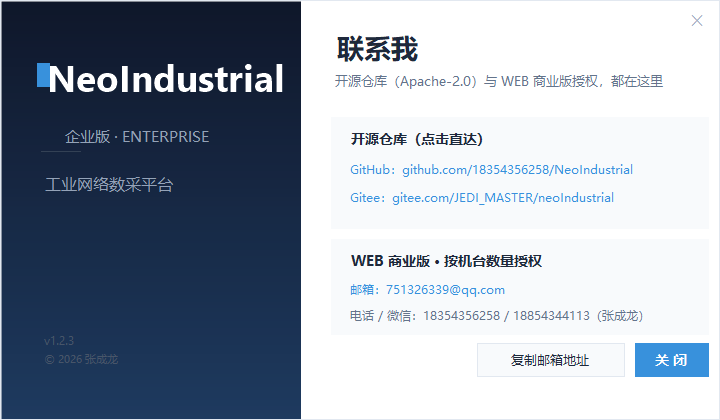
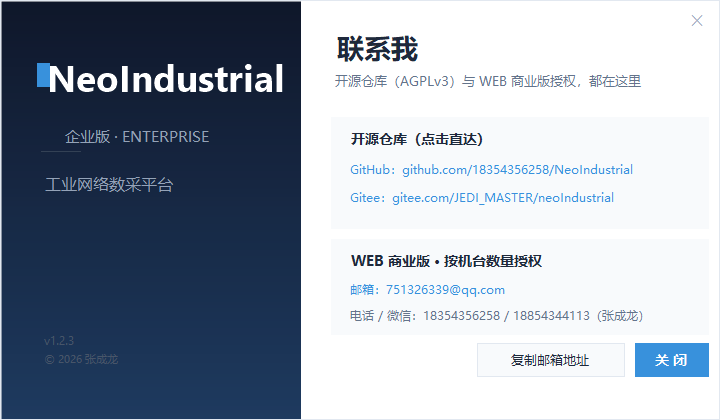
许可协议由 Apache-2.0 变更为 AGPLv3
- LICENSE: 替换为 GNU Affero GPL v3.0 全文（含第 13 条网络交互条款）
- README.md / README.en.md: 徽章、定位、目录树、许可证章节、页脚统一改为 AGPLv3，并写明衍生作品须同样以 AGPLv3 开源
- ContactForm.cs + Lang_zh/Lang_en.json: 「联系我」页副标题 Apache-2.0 -> AGPLv3
- picture/联系我.png: 按新文案重渲染

Changed region(s): [[0.55, 0.1548, 0.9167, 0.2167]]

diff --git a/IndustrialDataCollector/Forms/ContactForm.cs b/IndustrialDataCollector/Forms/ContactForm.cs
@@ -386,7 +386,7 @@ namespace IndustrialDataCollection.Forms
         {
             this.Text = S("Contact_Title", "联系我");
             lblTitle.Text = S("Contact_Title", "联系我");
-            lblDesc.Text = S("Contact_Subtitle", "开源仓库（Apache-2.0）与 WEB 商业版授权，都在这里");
+            lblDesc.Text = S("Contact_Subtitle", "开源仓库（AGPLv3）与 WEB 商业版授权，都在这里");
             lblReposTitle.Text = S("Contact_ReposTitle", "开源仓库（点击直达）");
             lnkGithub.Text = S("Contact_RepoGithub", "GitHub：github.com/18354356258/NeoIndustrial");
             lnkGitee.Text = S("Contact_RepoGitee", "Gitee：gitee.com/JEDI_MASTER/neoIndustrial");

diff --git a/README.md b/README.md
@@ -7,7 +7,7 @@
 **新工业 AI 数据基座 · 已开源的工业数据采集桌面客户端**
 
 [![.NET Framework 4.8](https://img.shields.io/badge/.NET-4.8-blue)](https://dotnet.microsoft.com/)
-[![License](https://img.shields.io/badge/License-Apache%202.0-green)](LICENSE)
+[![License](https://img.shields.io/badge/License-AGPLv3-blue)](LICENSE)
 [![Platform](https://img.shields.io/badge/Platform-Windows-lightgrey)]()
 [![GitHub](https://img.shields.io/badge/GitHub-NeoIndustrial-black)](https://github.com/18354356258/NeoIndustrial)
 [![Gitee](https://img.shields.io/badge/Gitee-JEDI_MASTER-red)](https://gitee.com/JEDI_MASTER/neoIndustrial)
@@ -20,7 +20,7 @@ GitHub：<https://github.com/18354356258/NeoIndustrial> ｜ Gitee：<https://git
 
 </div>
 
-> **一句话定位**：这是一套完整开源（Apache License 2.0）的工业数据采集与语义建模工作站——向下用 39 种协议驱动连接 PLC、CNC、电力仪表、楼宇设备，向上把数据写入五类数据库、发布到 MQTT，中间提供边缘计算清洗、事件报警、看板监控、REST API、MCP AI 助手与语义层数字孪生建模。源码全部开放，可自行下载、编译、部署与二次开发。
+> **一句话定位**：这是一套完整开源（AGPLv3）的工业数据采集与语义建模工作站——向下用 39 种协议驱动连接 PLC、CNC、电力仪表、楼宇设备，向上把数据写入五类数据库、发布到 MQTT，中间提供边缘计算清洗、事件报警、看板监控、REST API、MCP AI 助手与语义层数字孪生建模。源码全部开放，可自行下载、编译、部署与二次开发。
 
 ---
 
@@ -619,7 +619,7 @@ GET /api/status                               # 系统状态
 
 ### 获取方式（重要）
 
-- **企业版（本仓库）**：客户端可直接从本仓库 Releases 页面下载试用；源码 Apache 2.0，可克隆自行编译。正式授权请发送机器码至邮箱。
+- **企业版（本仓库）**：客户端可直接从本仓库 Releases 页面下载试用；源码 AGPLv3，可克隆自行编译。正式授权请发送机器码至邮箱。
 - **WEB 商业版**：**不提供公开下载**，需联系作者申请授权，按机台数量计费。
 - **客户端内入口**：企业版客户端「帮助 → 联系我」可一键打开两个开源仓库、复制授权邮箱；登录页也有「联系我 · 获取商业版 / 查看开源仓库」链接。
 
@@ -657,7 +657,7 @@ NeoIndustrial/
 ├─ picture/                            # README 截图
 ├─ IndustrialDataCollector.sln         # 解决方案
 ├─ setup.bat                           # 一键环境准备（清缓存 → 解除文件安全标记 → NuGet 还原）
-└─ LICENSE                             # Apache License 2.0
+└─ LICENSE                             # GNU AGPLv3
 ```
 
 ---
@@ -753,7 +753,7 @@ NeoIndustrial/
 
 ## 📄 许可证
 
-**源码**以 [Apache License 2.0](LICENSE) 开源（Copyright 2026 张成龙），可自由用于商业与非商业用途，保留版权与许可声明即可。
+**源码**以 [GNU Affero 通用公共许可证 v3.0（AGPLv3）](LICENSE) 开源（Copyright 2026 张成龙）。你可以自由使用、修改与分发，但**衍生作品必须同样以 AGPLv3 开源**；若把修改后的版本作为网络服务提供给他人使用，也必须向使用者提供完整的对应源码。保留版权与许可声明。
 
 **第三方依赖**：各 NuGet 包遵循其自身开源许可（如 MySqlConnector (MIT)、OPC UA 官方栈（OPC Foundation, RCL）、S7netplus、NModbus、Npgsql、System.Data.SQLite、MQTTnet、log4net 等），清单见 `IndustrialDataCollector/packages.config`（31 个包）。
 
@@ -773,7 +773,7 @@ NeoIndustrial/
 
 从 UI 原型到低层协议栈，从 Dashboard 到时序引擎，从数据库 schema 到 39 种工业协议驱动——全部一个人写完。不是为了证明什么，只是真的需要一副能连接一切工业设备的神经末梢，让数字孪生活起来。
 
-现在，我把这套企业版桌面客户端完整开源——Apache 2.0。因为我知道：一个工程师想在自己的工控机上装一套能用的、干净的、不设防的数据采集软件有多难。工业数据采集是数字孪生和智能制造最基础的地基——地基应该干干净净地开放。你下载、编译、连接你的设备，就这么简单。
+现在，我把这套企业版桌面客户端完整开源——AGPLv3。因为我知道：一个工程师想在自己的工控机上装一套能用的、干净的、不设防的数据采集软件有多难。工业数据采集是数字孪生和智能制造最基础的地基——地基应该干干净净地开放。你下载、编译、连接你的设备，就这么简单。
 
 我的铝挤压数字孪生项目已经落地，正在疯狂迭代中（三语界面、AI 分析、温度趋势看板、秒级数据同步、毫米级模型位移、实时对应生产现场设备运转），未来有可能也会开源，敬请期待。
 
@@ -785,7 +785,7 @@ NeoIndustrial/
 
 **IndustrialDataCollector — 数字孪生的数据基座**
 
-© 2026 张成龙 · Apache License 2.0
+© 2026 张成龙 · GNU AGPLv3
 
 📮 `751326339@qq.com` ｜ 📞 `18354356258` / `18854344113`（微信同号）
 

diff --git a/README.en.md b/README.en.md
@@ -9,12 +9,12 @@
 **An open-source, enterprise-grade industrial data acquisition desktop client for Windows**
 
 [![.NET Framework 4.8](https://img.shields.io/badge/.NET-4.8-blue)](https://dotnet.microsoft.com/download/dotnet-framework/net48)
-[![License](https://img.shields.io/badge/License-Apache%202.0-green)](LICENSE)
+[![License](https://img.shields.io/badge/License-AGPLv3-blue)](LICENSE)
 [![Platform](https://img.shields.io/badge/Platform-Windows-lightgrey)]()
 [![GitHub](https://img.shields.io/badge/GitHub-NeoIndustrial-black)](https://github.com/18354356258/NeoIndustrial)
 [![Gitee](https://img.shields.io/badge/Gitee-JEDI_MASTER-red)](https://gitee.com/JEDI_MASTER/neoIndustrial)
 
-**39 protocol drivers · millisecond MQTT uplink · 7 database targets · AI-native via MCP · Apache 2.0**
+**39 protocol drivers · millisecond MQTT uplink · 7 database targets · AI-native via MCP · AGPLv3**
 
 </div>
 
@@ -26,7 +26,7 @@ Industrial Data Collector is a production-grade industrial data acquisition work
 
 It is a WinForms desktop application written in C# on .NET Framework 4.8 — one executable, no server, no container, no database server required to get started. Connect a device, start collection, and watch the data land.
 
-> This repository contains the **complete source code** of the enterprise desktop client, released under the Apache License 2.0 — download it, build it, deploy it, adapt it.
+> This repository contains the **complete source code** of the enterprise desktop client, released under the GNU Affero General Public License v3.0 (AGPLv3) — download it, build it, deploy it, adapt it.
 
 ### 📸 See it in action
 
@@ -593,7 +593,7 @@ What the driver management page does:
 
 ### How to get it (important)
 
-- **Enterprise Edition (this repository)**: the client is **freely downloadable from this repository's Releases page** for evaluation; the source is Apache 2.0, so you can clone and build it yourself. For a formal license, send your machine ID by email.
+- **Enterprise Edition (this repository)**: the client is **freely downloadable from this repository's Releases page** for evaluation; the source is AGPLv3, so you can clone and build it yourself. For a formal license, send your machine ID by email.
 - **WEB Commercial Edition**: **no public download**. A license must be applied for directly from the author, priced by device/machine count.
 - **In-app shortcut**: in the desktop client, **Help → Contact Me** opens both repositories and lets you copy the licensing e-mail; the login screen also carries a “Contact Me · Get Commercial Edition” link.
 
@@ -617,7 +617,7 @@ What the driver management page does:
 NeoIndustrial/
 ├── IndustrialDataCollector.sln      # the solution
 ├── setup.bat                        # one-click environment prep (clean + unblock + nuget restore)
-├── LICENSE                          # Apache License 2.0
+├── LICENSE                          # GNU AGPLv3
 ├── docs/                            # user manuals (EN/CN) and release notes
 ├── picture/                         # screenshots used by this README
 └── IndustrialDataCollector/         # the application source
@@ -715,7 +715,7 @@ If this project helped you connect a PLC and solve a real problem, **give it a S
 
 ## 📄 License
 
-The source code in this repository is released under the [Apache License 2.0](LICENSE) — free for commercial and non-commercial use, redistributable under the license terms.
+The source code in this repository is released under the [GNU Affero General Public License v3.0 (AGPLv3)](LICENSE), Copyright 2026 Zhang Chenglong. You are free to use, modify and redistribute it, but **derivative works must also be licensed under AGPLv3**; if you run a modified version as a network service, you must offer the corresponding source code to its users. Copyright and license notices must be preserved.
 
 **Software activation:** the application includes an activation module — a license key bound to the machine's MAC address, activated online or offline, verified at every start. To obtain a license key for a deployed instance, contact the author:
 
@@ -743,6 +743,6 @@ Why open source? Because getting a usable data-acquisition program onto your own
 
 **Industrial Data Collector — the data foundation of the digital twin**
 
-© 2026 Zhang Chenglong · Apache License 2.0
+© 2026 Zhang Chenglong · GNU AGPLv3
 
 </div>
